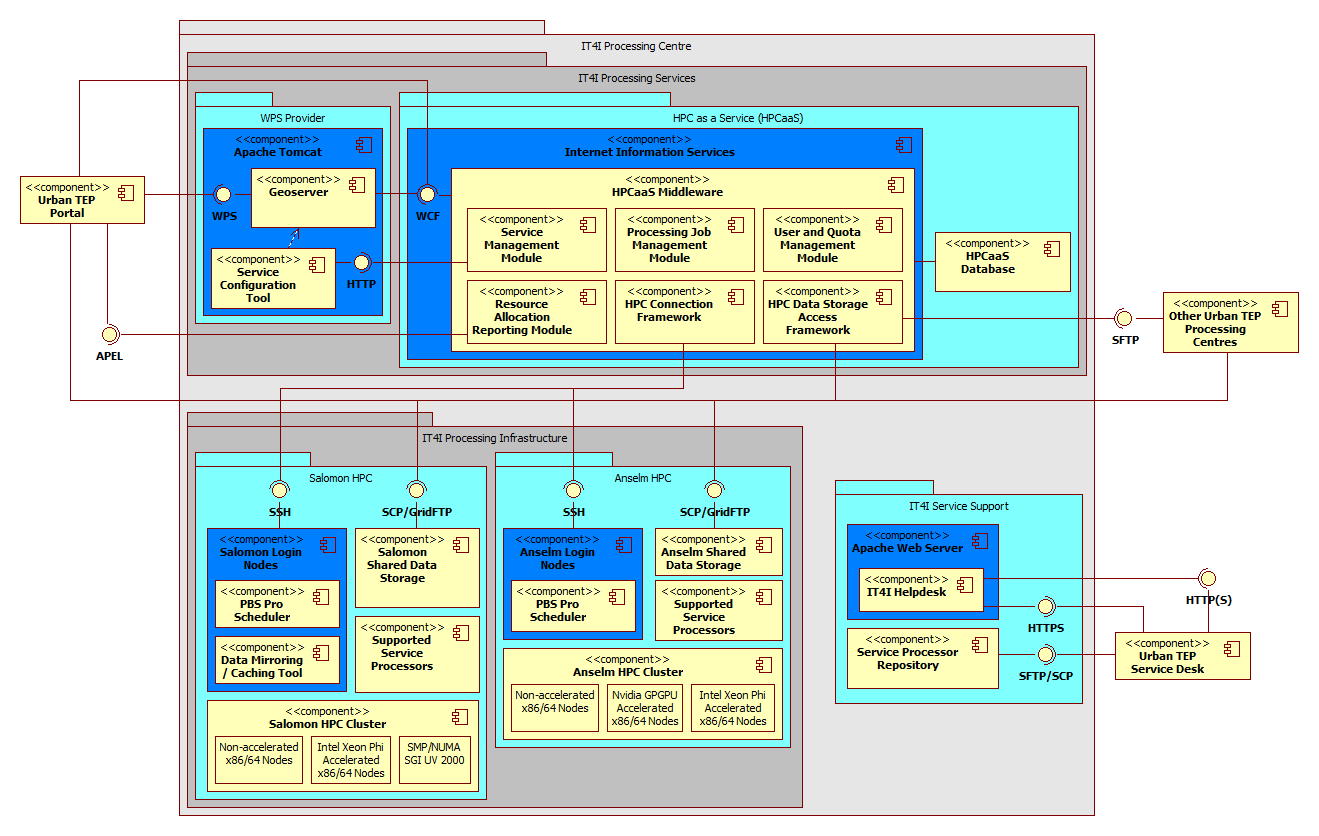
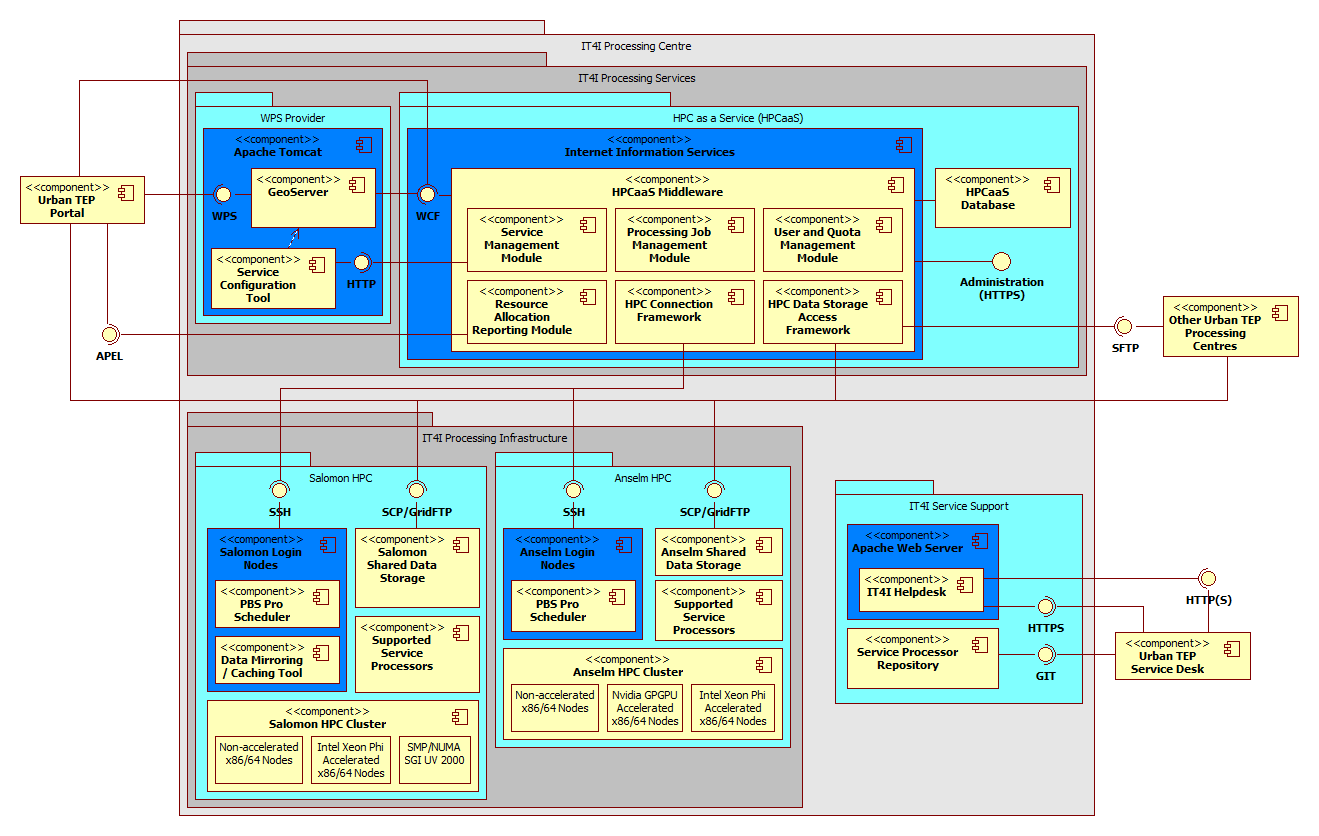
IT4I Processing Centre
More detailed description of the IT4I processing centre design
components.

Changed region(s): [[0.6839, 0.1866, 0.8393, 0.3732], [0.8393, 0.3421, 0.9947, 0.4354], [0.7771, 0.7775, 0.8082, 0.8397]]

diff --git a/source/computational/it4i-pc/processing_infrastructure.rst b/source/computational/it4i-pc/processing_infrastructure.rst
@@ -2,17 +2,47 @@
 
 IT4I Processing Infrastructure
 ==============================
+The *IT4I Processing Infrastructure* contains two Linux-based HPC clusters - *Anselm* and *Salomon* - and a supporting infrastructure for accessing and managing these clusters. The *Salomon HPC cluster* is the more powerful one of the two and will be primarilly used in the platform, with *Anselm HPC cluster* serving as a possible reserve during high utilisation of the *Salomon HPC cluster* or for executing processors accelerated with GPGPUs (as *Salomon* does not contain any GPGPU accelerators). As both these clusters have similar structure, their main components will be described together in the following subsections.
 
-WPS Design
-----------
 
-This is where I write stuff
+Login Nodes
+-----------
+Each cluster contains login nodes that are used for accessing the cluster environment and managing jobs. These login nodes serve as a single point for accessing the computational resources on the cluster and executing processing services. They are accessible through the SSH interface and the *HPCaaS HPC Connection Framework* uses this interface to submit processing jobs on the clusters. All processing requests in the Urban TEP platform has to go through the *HPC as a Service Middleware*, so the connections to *Login Nodes* are not provided to the *Urban TEP Portal* or any other part of the platform.
+
+All login nodes for both *Salomon* and *Anselm* clusters are running the *PBS Pro Scheduler* software, which efficiently distributes workloads across the computing resources on the related HPC cluster. These schedulers are independent, so jobs submitted on the *Salomon* cluster are only scheduled on *Salomon* and not on *Anselm* and vice versa. The *HPCaaS Middleware* therefore needs to know, which cluster is relevant for each processed service and submitted job. The *HPCaaS HPC Connection Framework* then uses the *PBS Pro Scheduler* to queue the processing jobs and monitor their status. By reconfiguring used queues in the *PBS Pro Scheduler* it is possible to dedicate a part of the cluster for executing Urban TEP services or let them compete over resources with other projects. It is also possible to change the configuration of the queues during runtime to react to the demand.
+
+The final Urban TEP related component on the *Login Nodes* is the *Data Mirroring / Caching Tool* that is currently present only on the *Salomon HPC*. This component connects to the external data providers and downloads service related data for long-term mirroring or short-term caching. It is deployed directly on the *Login Nodes* to have direct access to the *Shared Data Storage* on the *Salomon HPC* and store the data directly on the processing environment. This component is currently implemented to mirror LandSat data and will be extended with other data providers during Phase 2 of the Urban TEP project.
+
+
+Shared Data Storages
+--------------------
+Both clusters contain a *Shared Data Storage* specific for each cluster that is shared between all computing nodes of the specific cluster. This storage is used for the long-term mirrored data, short-term cached data, configuration and processing data of currently submitted jobs and processing results of finished jobs that were not yet downloaded by the *Urban TEP Portal* and deleted from the processing infrastructure.
+
+The *Shared Data Storage* of each cluster is accessible by the SCP and GridFTP interface and access to this interface is managed by the *HPCaaS HPC Data Storage Access Module*, that can open a temporary authenticated connection with limited access and provide it to the client that wants to transfer the data, be it the *Urban TEP Portal* or other Urban TEP processing centre. In this way, the *Urban TEP Portal* can for example download processing results of specific job without transferring the data through the *HPCaaS Middleware*, but it first needs to send an authenticated request to the middleware so that it can open and provide the connection.
+
+As the storages are not shared between clusters, when executing processing services on the *Anselm HPC cluster*, the necessary input data have to be transferred from the *Salomon HPC cluster* first.
+
+
+Supported Service Processors
+----------------------------
+The *Supported Service Processors* are applications that are responsible for the computations performed in the platform. The processors that will be supported by the IT4I processing centre will be deployed on the *Salomon Shared Data Storage* and possibly *Anselm Shared Data Storage* and will be directly available on the computing resources on these clusters.
+
+Input by DLR
+
+
+HPC Clusters
+------------
+The HPC clusters themselves are used for computing by executing processing service processors. The structure of both clusters is similar but with significant differences in the number and power of their computing nodes.
+
+The *Salomon HPC cluster* is currently (November 2015) the top 48th supercomputer in the TOP500 list1 and consists of 1008 computational nodes of which 576 are regular compute nodes and 432 accelerated nodes. Each node is a powerful x86-64 computer, equipped with 24 cores (two twelve-core Intel Xeon E5-2680v3 processors) and 128GB RAM. The accelerated nodes are additionally equipped with Intel Xeon Phi 7120P MIC accelerators. All nodes are interconnected by 7D Enhanced hypercube InfiniBand network. All nodes share 0.5PB NFS disk storage to store the user files and a DDN Lustre shared storage with a capacity of 1.69 PB, which is available for the temporary processing data. The total theoretical peak performance of the Salomon cluster is 2011 Tflop/s.
+
+The *Anselm HPC cluster* consists of 209 computational nodes, of which 180 are regular computing nodes, 23 are GPU Kepler K20 accelerated nodes, 4 are MIC Xeon Phi 5110 accelerated nodes and 2 are fat nodes. Each node is an x86-64 computer, equipped with 16 cores (two eight-core Intel Sandy Bridge E5-2665 or E5-2470 processors), at least 64GB RAM, and local hard drive. The nodes are interlinked by high speed InfiniBand QDR, fully non-blocking, fat-tree network. All nodes share 320TB disk storage to store the user files and 146TB shared storage for temporary processing data. The total theoretical peak performance of the Anselm cluster is 94 Tflop/s.
+
+As GPGPU accelerated nodes are only present on the Anselm HPC cluster, any service processors that are accelerated by GPGPUs have to be executed on the *Anselm HPC cluster*.
+
 
 .. req:: TS-FUN-0040 
   :show:
 
   This section describe how the processing center implements WPS.
 
-
-
-blah blah blah

diff --git a/source/computational/it4i-pc/wps_provider.rst b/source/computational/it4i-pc/wps_provider.rst
@@ -2,11 +2,20 @@
 
 IT4I WPS Provider
 =================
+The WPS Provider package contains components that publish the processing functionality of the platform as WPS services to the Urban TEP Portal and execute workflows connected with these services. As the package contains several related web-based J2EE applications and tools, it will be deployed on one Linux-based virtual server in the IT4I virtualisation infrastructure and hosted in the Apache Tomcat webserver and servlet container. Individual components of the IT4I processing centre WPS Provider are described in the following subsections.
 
-WPS Design
-----------
 
-This is where I write stuff
+GeoServer
+---------
+As OGC WPS is the main interface for executing processing services in the Urban TEP platform, IT4I will build all WPS related functionality on *GeoServer*, which is an open source server for sharing geospatial data. *GeoServer* is an OGC compliant implementation of a number of open standards such as Web Feature Service (WFS), Web Map Service (WMS), and Web Coverage Service (WCS). Additional formats and publication options are available including Web Map Tile Service (WMTS) and extensions for Catalogue Service (CSW) and finally Web Processing Service (WPS). (http://geoserver.org/)
+
+Whenever the *Urban TEP Portal* wants to discover, which services are available in the IT4I processing centre, or wants to execute any of these services, it sends WPS reguests to the *GeoServer*. *GeoServer* then either provides the information about supported services in its service catalogue or starts the configured execution workflow related to the requested service. All processing workflow requests are then forwarded to the *HPC as a Service* solution that manages all processing jobs and information about available HPC clusters and their resources.
+
+
+Service Configuration Tool
+--------------------------
+The *Service Configuration Tool* is an IT4I in-house J2EE solution that serves as an auxiliary tool for managing and updating configuration of supported services in the *GeoServer*. It is actually a web service-based adapter that synchronises the *HPC as a Service Middleware* and *GeoServer* service configurations to simplify the administration of both solutions. Whenever any change in the service configuration appears in *HPC as a Service* (either by a processing workflow or by administration intervention), the *Service Management Module* of the *HPC as a Service Middleware* synchronises the configuration changes with the *GeoServer* using the *Service Configuration Tool*.
+
 
 .. req:: TS-FUN-0040 
   :show:
@@ -14,5 +23,3 @@ This is where I write stuff
   This section describe how the processing center implements WPS.
 
 
-
-blah blah blah

diff --git a/source/computational/it4i-pc/service_support.rst b/source/computational/it4i-pc/service_support.rst
@@ -2,17 +2,27 @@
 
 IT4I Service Support
 ====================
+The *IT4I Service Support* will provide support for all things related to the IT4I processing centre and will administrate all parts of the IT4I processing centre infrastructure. This requires mostly manual human-based processes that will be performed by *IT4I Service Support Operators*. Several software components described in the following subsections will be used to increase the effectiveness of these support and administration processes.
 
-WPS Design
-----------
 
-This is where I write stuff
+IT4I Helpdesk
+-------------
+The *IT4I Helpdesk* is a helpdesk solution that manages the issues and support requests related to the IT4I processing centre. This helpdesk will serve as a processing center specific third escalation level for *Urban TEP Service Desk* incident and problem management.
+
+The *IT4I Helpdesk* is a web-based solution deployed on a virtual server in IT4I virtualisation infrastructure and hosted on the Apache Web Server. It will provide HTTPS interface to the *Urban TEP Service Desk* to escalate selected issues. The *IT4I Helpdesk* will also send status updates for escalated issues via an HTTP(S) interface of the *Urban TEP Service Desk*.
+
+The issues tracked by the *IT4I Helpdesk* are solved by *IT4I Service Support Operators* that have access to all parts of the IT4I processing centre infrastructure.
+
+
+Service Processor Repository
+----------------------------
+The *Service Processor Repository* will be based on software versioning tools and will provide a repository for different versions of supported service processors, both internal and user-developed. Source codes, configuration and make files, necessary auxiliary data and working example configurations will be stored in the repository to enable validation of source codes and their semi-automatic building, deployment and testing to the *IT4I Processing Infrastrucutre* based on the request of the *IT4I Service Support Operator*.
+
+The *Service Processor Repository* will be deployed as a Git repository on the same virtual server as *IT4I Helpdesk*.
+
 
 .. req:: TS-FUN-0040 
   :show:
 
   This section describe how the processing center implements WPS.
 
-
-
-blah blah blah

diff --git a/source/computational/it4i-pc/index.rst b/source/computational/it4i-pc/index.rst
@@ -39,7 +39,7 @@ Before describing the components the main functions with their initiation and wo
      - optionally the *IT4I Service Support Operator* to release the use of the uploaded processor, or the publication of the processor to be used by other users via the *HPCaaS Service Management Module* using the HPCaaS Administration interface.
  * To report on resource usage
      - the *HPCaaS Resource Allocation Reporting Module* to generate the report for Urban TEP,
-     - The *IT4I Service Support Operator* to verify and release the report.
+     - the *IT4I Service Support Operator* to verify and release the report.
 
 Individual packages and their components are described in more detail in the following subsections.
 
